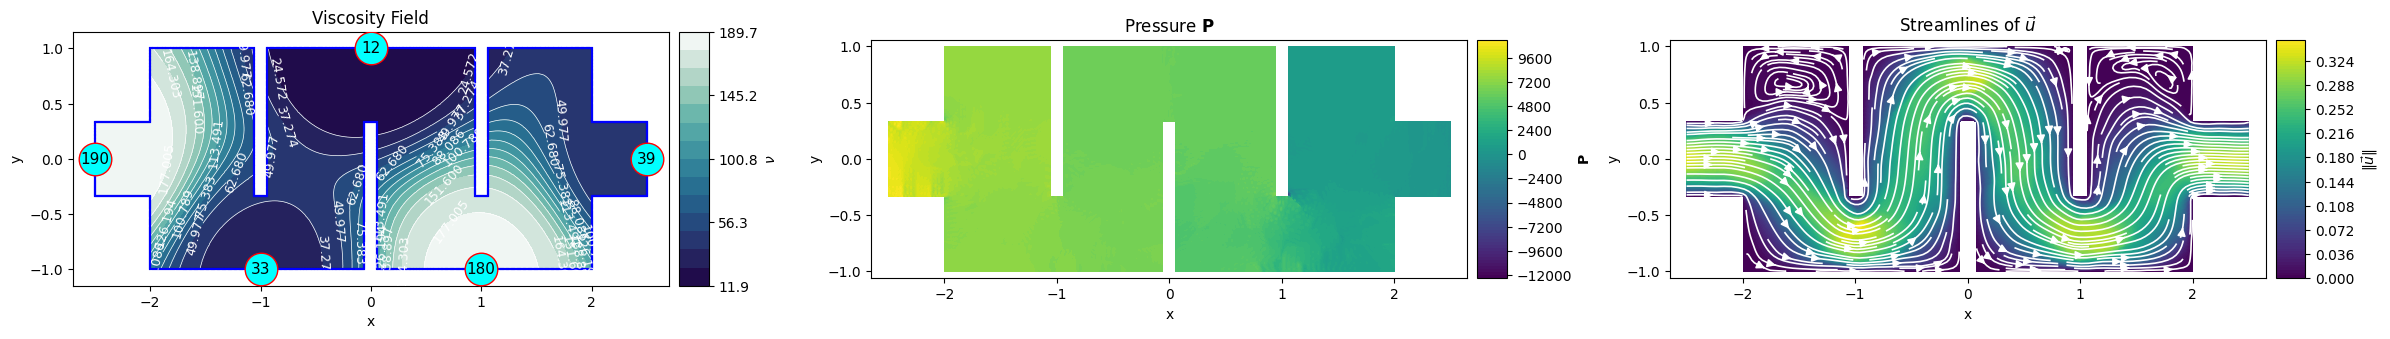
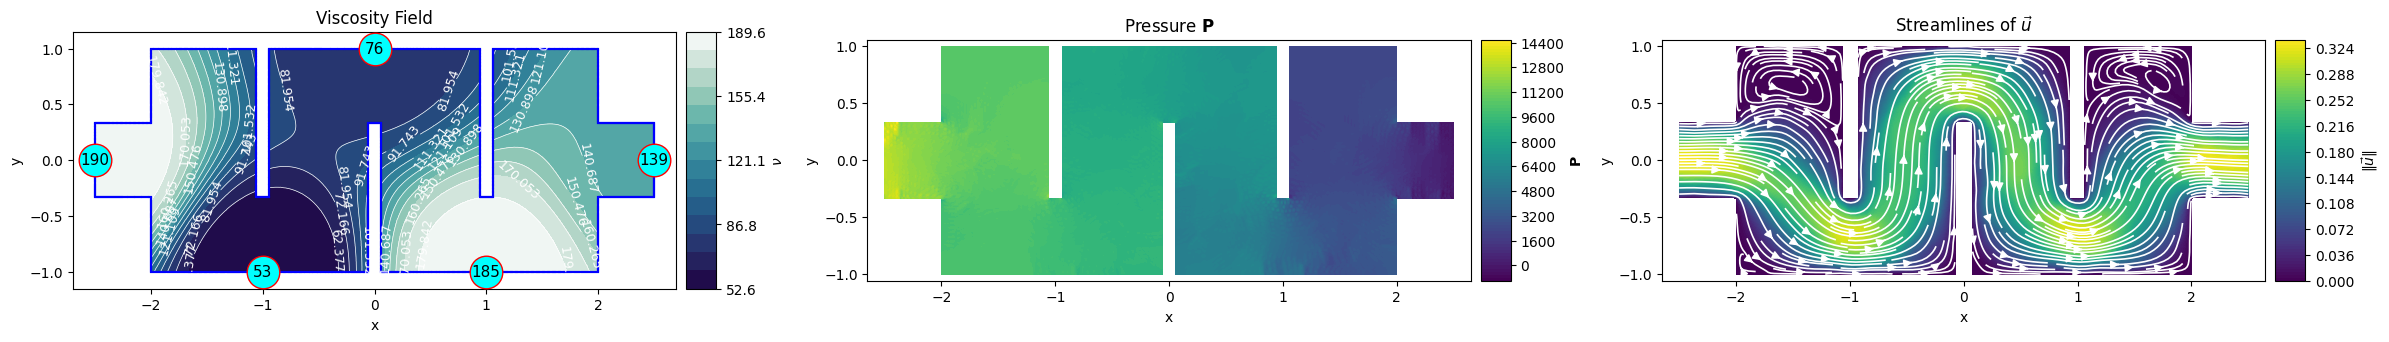
Rerun_NB

diff --git a/Utilities/ROM.py b/Utilities/ROM.py
@@ -10,7 +10,8 @@ from .Plot_functions import (
 
 #_______________________________________________________________________________________________________________________________________________________________
 
-def ROM_solution_statistics(ux_FOM, uy_FOM, p_FOM, ux_ROM, uy_ROM, p_ROM):
+def ROM_solution_statistics(ux_FOM, uy_FOM, p_FOM, ux_ROM, uy_ROM, p_ROM,
+                            display_errors:bool=False):
 
     Umag_FOM  = np.sqrt(ux_FOM**2 + uy_FOM**2)
     Umag_ROM  = np.sqrt(ux_ROM**2 + uy_ROM**2)
@@ -20,8 +21,9 @@ def ROM_solution_statistics(ux_FOM, uy_FOM, p_FOM, ux_ROM, uy_ROM, p_ROM):
     rel_u = np.linalg.norm(Umag_ROM - Umag_FOM) / np.linalg.norm(Umag_FOM)
     rel_p = np.linalg.norm(p_ROM - p_FOM) / np.linalg.norm(p_FOM)
 
-    display(Math(fr"\text{{Relative }} L_2 \text{{ error }} \|u\|_2: {rel_u:.3e}"))
-    display(Math(fr"\text{{Relative }} L_2 \text{{ error }} p : {rel_p:.3e}"))
+    if display_errors:
+        display(Math(fr"\text{{Relative }} L_2 \text{{ error }} \|u\|_2: {rel_u:.3e}"))
+        display(Math(fr"\text{{Relative }} L_2 \text{{ error }} p : {rel_p:.3e}"))
 
     return Umag_FOM, Umag_ROM, abs_err_u, abs_err_p, rel_u, rel_p
 
@@ -33,7 +35,8 @@ def ROM_FOM_comparison(ux_true, uy_true, p_true, ux_rom, uy_rom, p_rom,
                        savetype='png'):
 
     Umag_true, Umag_rom, abs_err_u, abs_err_p, rel_u, rel_p = ROM_solution_statistics(ux_true, uy_true, p_true,
-                                                                                      ux_rom,  uy_rom,  p_rom)
+                                                                                      ux_rom,  uy_rom,  p_rom,
+                                                                                      display_errors=True)
     fig, axes = plt.subplots(2, 3, figsize=figsize)
 
     vel_min = min(Umag_true.min(), Umag_rom.min())
@@ -83,3 +86,5 @@ def ROM_FOM_comparison(ux_true, uy_true, p_true, ux_rom, uy_rom, p_rom,
     plt.tight_layout()
     plt.savefig(f'Outputs/ROM_FEM_comparison.{savetype}', bbox_inches='tight', pad_inches=0.01)
     plt.show()
+
+#_______________________________________________________________________________________________________________________________________________________________
